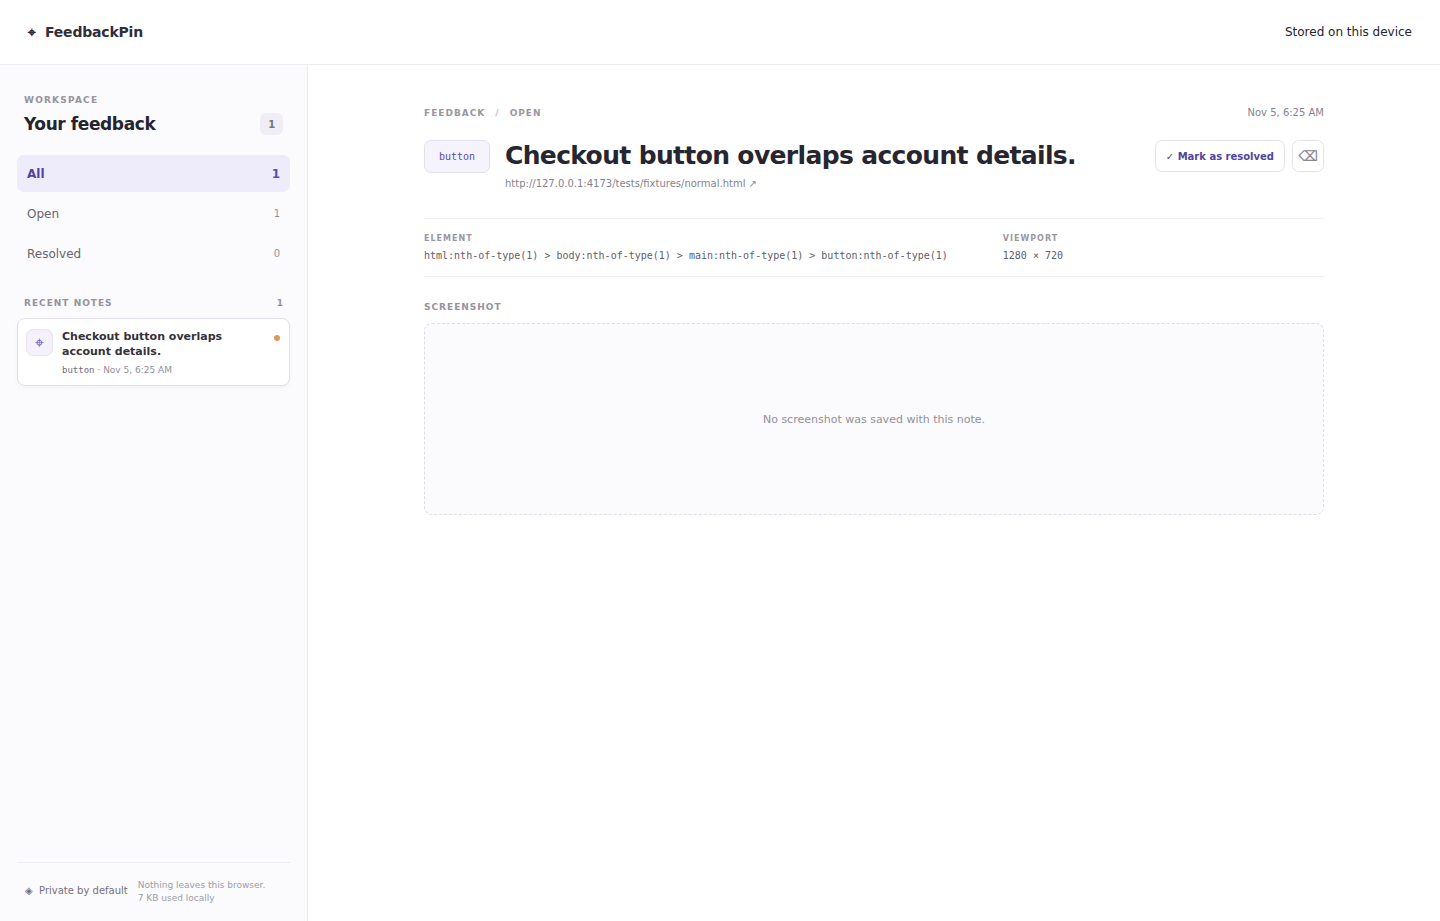
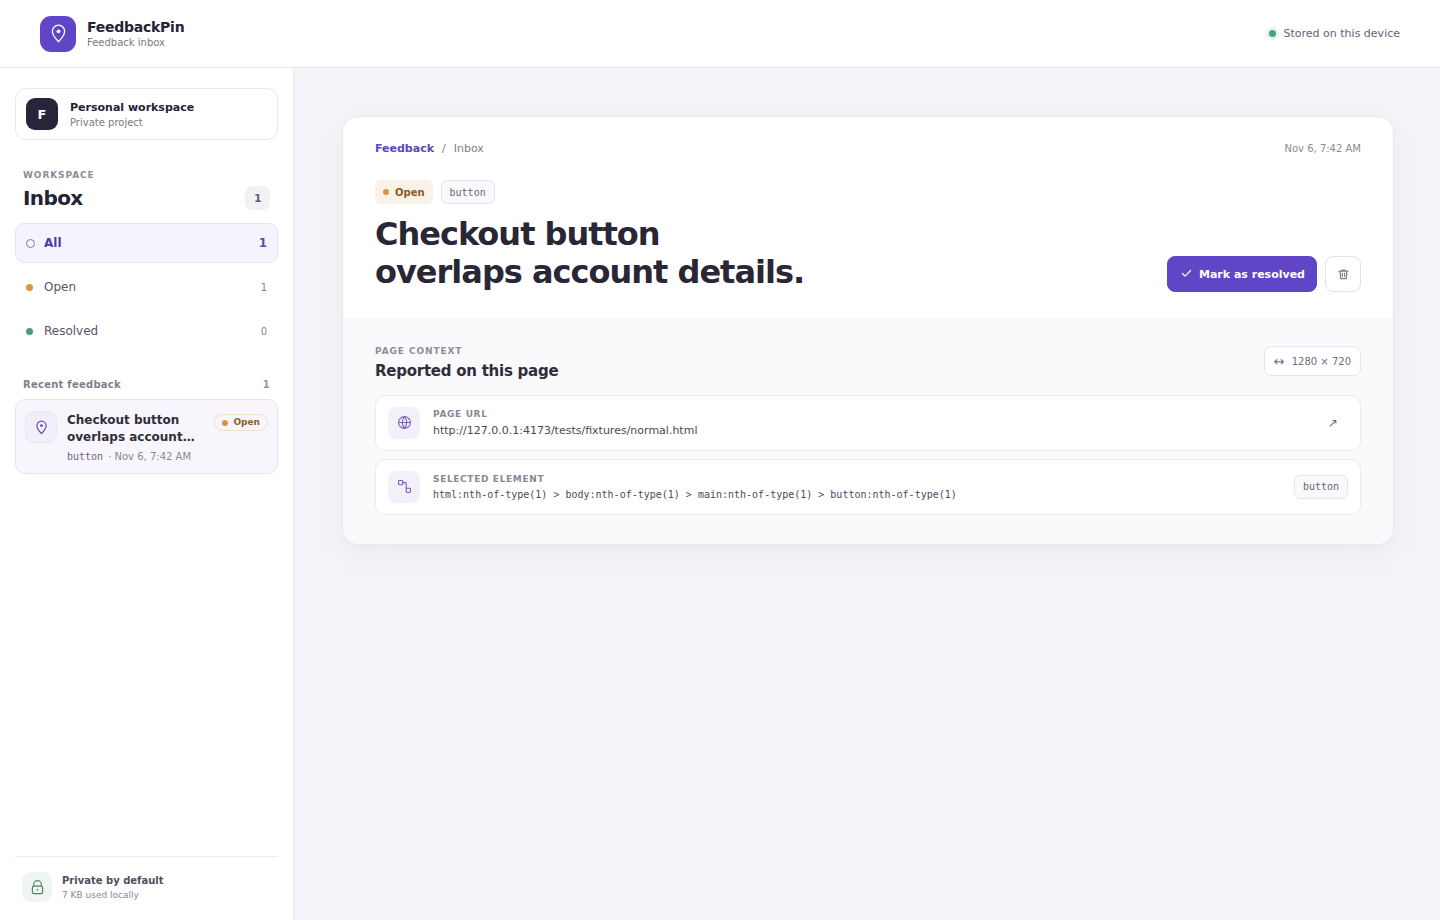
docs(ui): refresh screenshots and review evidence

diff --git a/docs/performance.md b/docs/performance.md
@@ -2,11 +2,11 @@
 
 ## Remote runtime measurements
 
-**Run:** [GitHub Actions `41988254350`](https://github.com/kkonstantin08/feedbackpin/actions/runs/41988254350), commit `4c11272`, 2026-11-05. Measurements ran on the hosted CI runner, not on the user's laptop.
+**Run:** [GitHub Actions `42182300358`](https://github.com/kkonstantin08/feedbackpin/actions/runs/42182300358), commit `96171b5`, 2026-11-06. Measurements ran on the hosted CI runner, not on the user's laptop.
 
 | Environment     | Value                                                                                                                |
 | --------------- | -------------------------------------------------------------------------------------------------------------------- |
-| Runner          | GitHub Actions, Linux x64, 4 logical CPUs, 15,984 MiB RAM                                                            |
+| Runner          | GitHub Actions, Linux x64, 4 logical CPUs, 15,982 MiB RAM                                                            |
 | Browser         | Chromium 156.0.8078.4                                                                                                |
 | Pages           | Ordinary HTML, long document, dynamically rendered React fixture                                                     |
 | Sampling        | Sequential isolated browser profiles; 2 seconds per state, plus one 35-second quiet interval                         |
@@ -16,38 +16,38 @@ CPU is summed across Chrome processes and shown as a percent of one logical core
 
 | State                      | Chrome CPU | GPU CPU | Aggregate Chrome RSS | Page task / long tasks |
 | -------------------------- | ---------: | ------: | -------------------: | ---------------------- |
-| No extension               |      2.99% |   1.33% |            988.0 MiB | maximum 9.22 ms / 0    |
-| Installed, inactive        |      2.99% |   0.83% |          1,093.7 MiB | maximum 13.43 ms / 0   |
-| Element selection active   |      2.33% |   1.00% |          1,159.4 MiB | maximum 12.13 ms / 0   |
-| After text-only save       |      0.50% |      0% |          1,162.5 MiB | 1.58 ms / 0            |
-| After selection close      |      1.50% |   0.75% |          1,178.7 MiB | maximum 7.99 ms / 0    |
-| After 10 open/close cycles |      3.66% |   2.00% |          1,194.9 MiB | maximum 8.83 ms / 0    |
-| After 35 seconds quiet     |      0.49% |      0% |          1,139.2 MiB | 11.89 ms / 0           |
+| No extension               |      1.83% |   0.67% |          1,076.0 MiB | maximum 9.49 ms / 0    |
+| Installed, inactive        |      2.33% |   1.00% |          1,189.4 MiB | maximum 10.46 ms / 0   |
+| Element selection active   |      2.99% |   1.16% |          1,247.3 MiB | maximum 12.27 ms / 0   |
+| After text-only save       |      0.50% |      0% |          1,249.4 MiB | 2.02 ms / 0            |
+| After selection close      |      0.74% |      0% |          1,267.3 MiB | maximum 10.39 ms / 0   |
+| After 10 open/close cycles |      4.15% |   2.00% |          1,284.1 MiB | maximum 12.13 ms / 0   |
+| After 35 seconds quiet     |      0.66% |      0% |          1,249.3 MiB | 16.95 ms / 0           |
 
-Selection started in a median 29.7 ms across 33 activations (maximum 47.8 ms). Post-GC page heap after ten cycles was +0.5 to +0.6 MiB from installed-idle on all three fixtures. No long tasks were recorded in the samples.
+Selection started in a median 42.2 ms across 33 activations (maximum 77.4 ms). Post-GC page heap after ten cycles was +0.5 to +0.6 MiB from installed-idle on all three fixtures. No long tasks were recorded in the samples.
 
-Aggregate RSS was about 106 MiB above the no-extension mean while installed and inactive, and about 207 MiB above it after ten cycles. This is aggregate Chrome process memory, not an allocation attribution to FeedbackPin: browser test profiles, extension pages, renderers, and Chromium caches are included. The short hosted-runner measurements cannot establish the same CPU or memory impact on the user's laptop.
+Aggregate RSS was about 113 MiB above the no-extension mean while installed and inactive, and about 208 MiB above it after ten cycles. This is aggregate Chrome process memory, not an allocation attribution to FeedbackPin: browser test profiles, extension pages, renderers, and Chromium caches are included. The short hosted-runner measurements cannot establish the same CPU or memory impact on the user's laptop.
 
-The 35-second performance sample uses Playwright, which observes a service-worker handle, so that sample alone is not a worker-shutdown assertion. A separate lifecycle E2E starts isolated Chromium and observes browser-level `Target.targetDestroyed` without attaching to the worker. Run `41988254350` measured natural worker termination at 30,101 ms and passed the 25–60 second idle-window assertion. The service worker source is event-driven and declares no timers, alarms, ports, or polling. The production manifest registers no content script, so page code is absent until the user invokes selection. Unit/E2E cleanup checks verify that closing selection removes its page overlay and listeners.
+The 35-second performance sample uses Playwright, which observes a service-worker handle, so that sample alone is not a worker-shutdown assertion. A separate lifecycle E2E starts isolated Chromium and observes browser-level `Target.targetDestroyed` without attaching to the worker. Run `42182300358` measured natural worker termination at 30,119 ms and passed the 25–60 second idle-window assertion. The service worker source is event-driven and declares no timers, alarms, ports, or polling. The production manifest registers no content script, so page code is absent until the user invokes selection. Unit/E2E cleanup checks verify that closing selection removes its page overlay and listeners.
 
 ## Production artifact sizes
 
-Measured by `npm run build` on 2026-11-05:
+Measured by `npm run build` on 2026-11-06:
 
 | Artifact             |       Raw |     Gzip |
 | -------------------- | --------: | -------: |
 | On-demand selector   |   6.77 kB |  2.81 kB |
 | Service worker       |   1.57 kB |  0.80 kB |
-| Popup JavaScript     |   2.38 kB |  1.10 kB |
-| Dashboard JavaScript |   6.85 kB |  2.50 kB |
+| Popup JavaScript     |   2.99 kB |  1.28 kB |
+| Dashboard JavaScript |  11.15 kB |  3.39 kB |
 | Shared React runtime | 219.40 kB | 68.53 kB |
-| Popup CSS            |   2.53 kB |  1.02 kB |
-| Dashboard CSS        |   8.43 kB |  2.42 kB |
+| Popup CSS            |   3.95 kB |  1.35 kB |
+| Dashboard CSS        |  14.13 kB |  3.56 kB |
 
 React is loaded by the extension popup and dashboard. The page selector remains a standalone 6.77 kB script with no runtime module imports. `npm run check:build` checks the production MV3 manifest has only `activeTab` and `scripting`, no host permissions, no optional permissions, and no registered `content_scripts`.
 
 ## Reproduction and limits
 
-The performance experiment is part of the loaded-extension Playwright suite and runs only on GitHub Actions. The recorded command is `xvfb-run --auto-servernum npm run test:e2e`; run `41988254350` also passed lint, strict typecheck, all 33 unit tests, all six E2E scenarios, and production build. The CI workflow uploads raw measurements with a 14-day retention. No browser or Playwright process was launched on the user's laptop.
+The performance experiment is part of the loaded-extension Playwright suite and runs only on GitHub Actions. The recorded command is `xvfb-run --auto-servernum npm run test:e2e`; run `42182300358` also passed lint, strict typecheck, all 35 unit tests, all six E2E scenarios, and production build. The CI workflow uploads raw measurements with a 14-day retention. No browser or Playwright process was launched on the user's laptop.
 
-These numbers are a small CI comparison, not a benchmark of different laptops or a guarantee of zero impact. Dashboard overflow was checked at 390 px in E2E. Extended real-world browsing sessions and the user's laptop resource impact remain unmeasured.
+These numbers are a small CI comparison, not a benchmark of different laptops or a guarantee of zero impact. Dashboard overflow was checked at 390 px in E2E, and the generated 390 px and 1440 px screenshots were visually inspected. Extended real-world browsing sessions and the user's laptop resource impact remain unmeasured.

diff --git a/docs/audits/ponytail-review.md b/docs/audits/ponytail-review.md
@@ -29,3 +29,11 @@ The dashboard storage estimate is implemented, and its success, failure, listing
 **Not checked:** Screenshot redaction is out of scope because screenshot capture is disabled. Impact on the user's laptop and extended real-world sessions remain unmeasured. GitHub Actions run `41988254350` passed all six loaded-extension E2E scenarios on a remote runner, including dashboard overflow at 390 px. The performance report records hosted-runner CPU/RSS, task, startup and cleanup measurements.
 
 Verdict: Text-only privacy path is implemented. Remote CI performance measurements support the idle/active runtime claims only for the recorded hosted-runner conditions; they do not establish the same impact on the user's hardware.
+
+## UI redesign follow-up — 2026-11-06
+
+What this change does: The dashboard now presents reports as a compact inbox with a readable detail view and page context. The popup and dashboard share one product identity, and each report row shows its state in text as well as color.
+
+Looks good. Ship. The change reuses the existing React page and CSS Modules, adds no dependencies, and retains the current data flow. Focused tests verify visible Open/Resolved labels; remote run `42182300358` passed lint, typecheck, all 35 unit tests, six loaded-extension E2E cases, and production build. The 390 px screenshot was inspected and has no horizontal overflow.
+
+Not checked: Resource use on the user's laptop; hosted-runner process totals are not a laptop measurement.

diff --git a/docs/tdd/ui-redesign.md b/docs/tdd/ui-redesign.md
@@ -14,4 +14,4 @@
 - RED: `npm test -- tests/unit/dashboard.test.tsx` failed on the new text-only report case because it rendered a full Screenshot region with the placeholder “No screenshot was saved with this note.”
 - GREEN: the dashboard renders the screenshot section only for a legacy image, and shows stored capture errors as a compact note. The focused dashboard/popup suite passes 10/10, including no-placeholder and legacy-image regressions; the full unit suite passes 35/35.
 - RED: the status-filter test failed when it required visible `Open` and `Resolved` labels, because each row exposed only a colored dot.
-- GREEN: each row now includes a compact text status chip. Focused dashboard tests pass 7/7; all 35 unit tests, lint, strict typecheck, production build, and diff checks pass. Remote loaded-extension screenshot/E2E verification of this final status-chip change is pending. No local browser was launched.
+- GREEN: each row now includes a compact text status chip. Focused dashboard tests pass 7/7; all 35 unit tests, lint, strict typecheck, production build, and diff checks pass. Remote run `42182300358` passed all six loaded-extension E2E cases and produced current popup, 390 px and 1440 px screenshots. The 390 px test asserts no horizontal overflow; all three screenshots were visually inspected and saved to `docs/assets/`. No local browser was launched.

diff --git a/docs/plans/2026-11-04-feedbackpin-mvp.md b/docs/plans/2026-11-04-feedbackpin-mvp.md
@@ -149,5 +149,5 @@ The user approved the Stage B specification and plan, then authorized implementa
 - [x] Bring popup typography, spacing, and action hierarchy into the same product identity without adding dependencies, remote fonts, or animation work.
 - [x] Add RED/GREEN evidence for the screenshot-free detail state and regression coverage for legacy image display and current report actions.
 - [x] Run the 35 unit tests, lint, strict typecheck, and production build locally; no browser was launched.
-- [ ] Run loaded-extension E2E and produce updated screenshots only on the remote GitHub Actions runner. Never start a local browser.
-- [ ] Recheck dashboard layout at 390 px and 1440 px using the existing loaded-extension scenario; inspect downloaded CI screenshots without opening a browser locally.
+- [x] Run loaded-extension E2E after adding visible report status labels. Remote run `42182300358` passed all six cases and produced updated screenshots; never start a local browser.
+- [x] Recheck dashboard at 390 px and 1440 px; the mobile test asserts `scrollWidth <= 390`. The popup, mobile, and desktop CI screenshots were visually inspected without opening a browser locally.

diff --git a/README.md b/README.md
@@ -19,6 +19,8 @@ FeedbackPin has no account, backend, network reporting, analytics, or team works
 
 ![FeedbackPin dashboard with a sample note](docs/assets/dashboard.png)
 
+![FeedbackPin dashboard at a 390 px viewport](docs/assets/dashboard-mobile.png)
+
 These are real screenshots of the built extension using a synthetic local fixture in remote CI. The product itself does not capture page screenshots; the dashboard shows a note without an image for privacy.
 
 ## Install in Chrome
